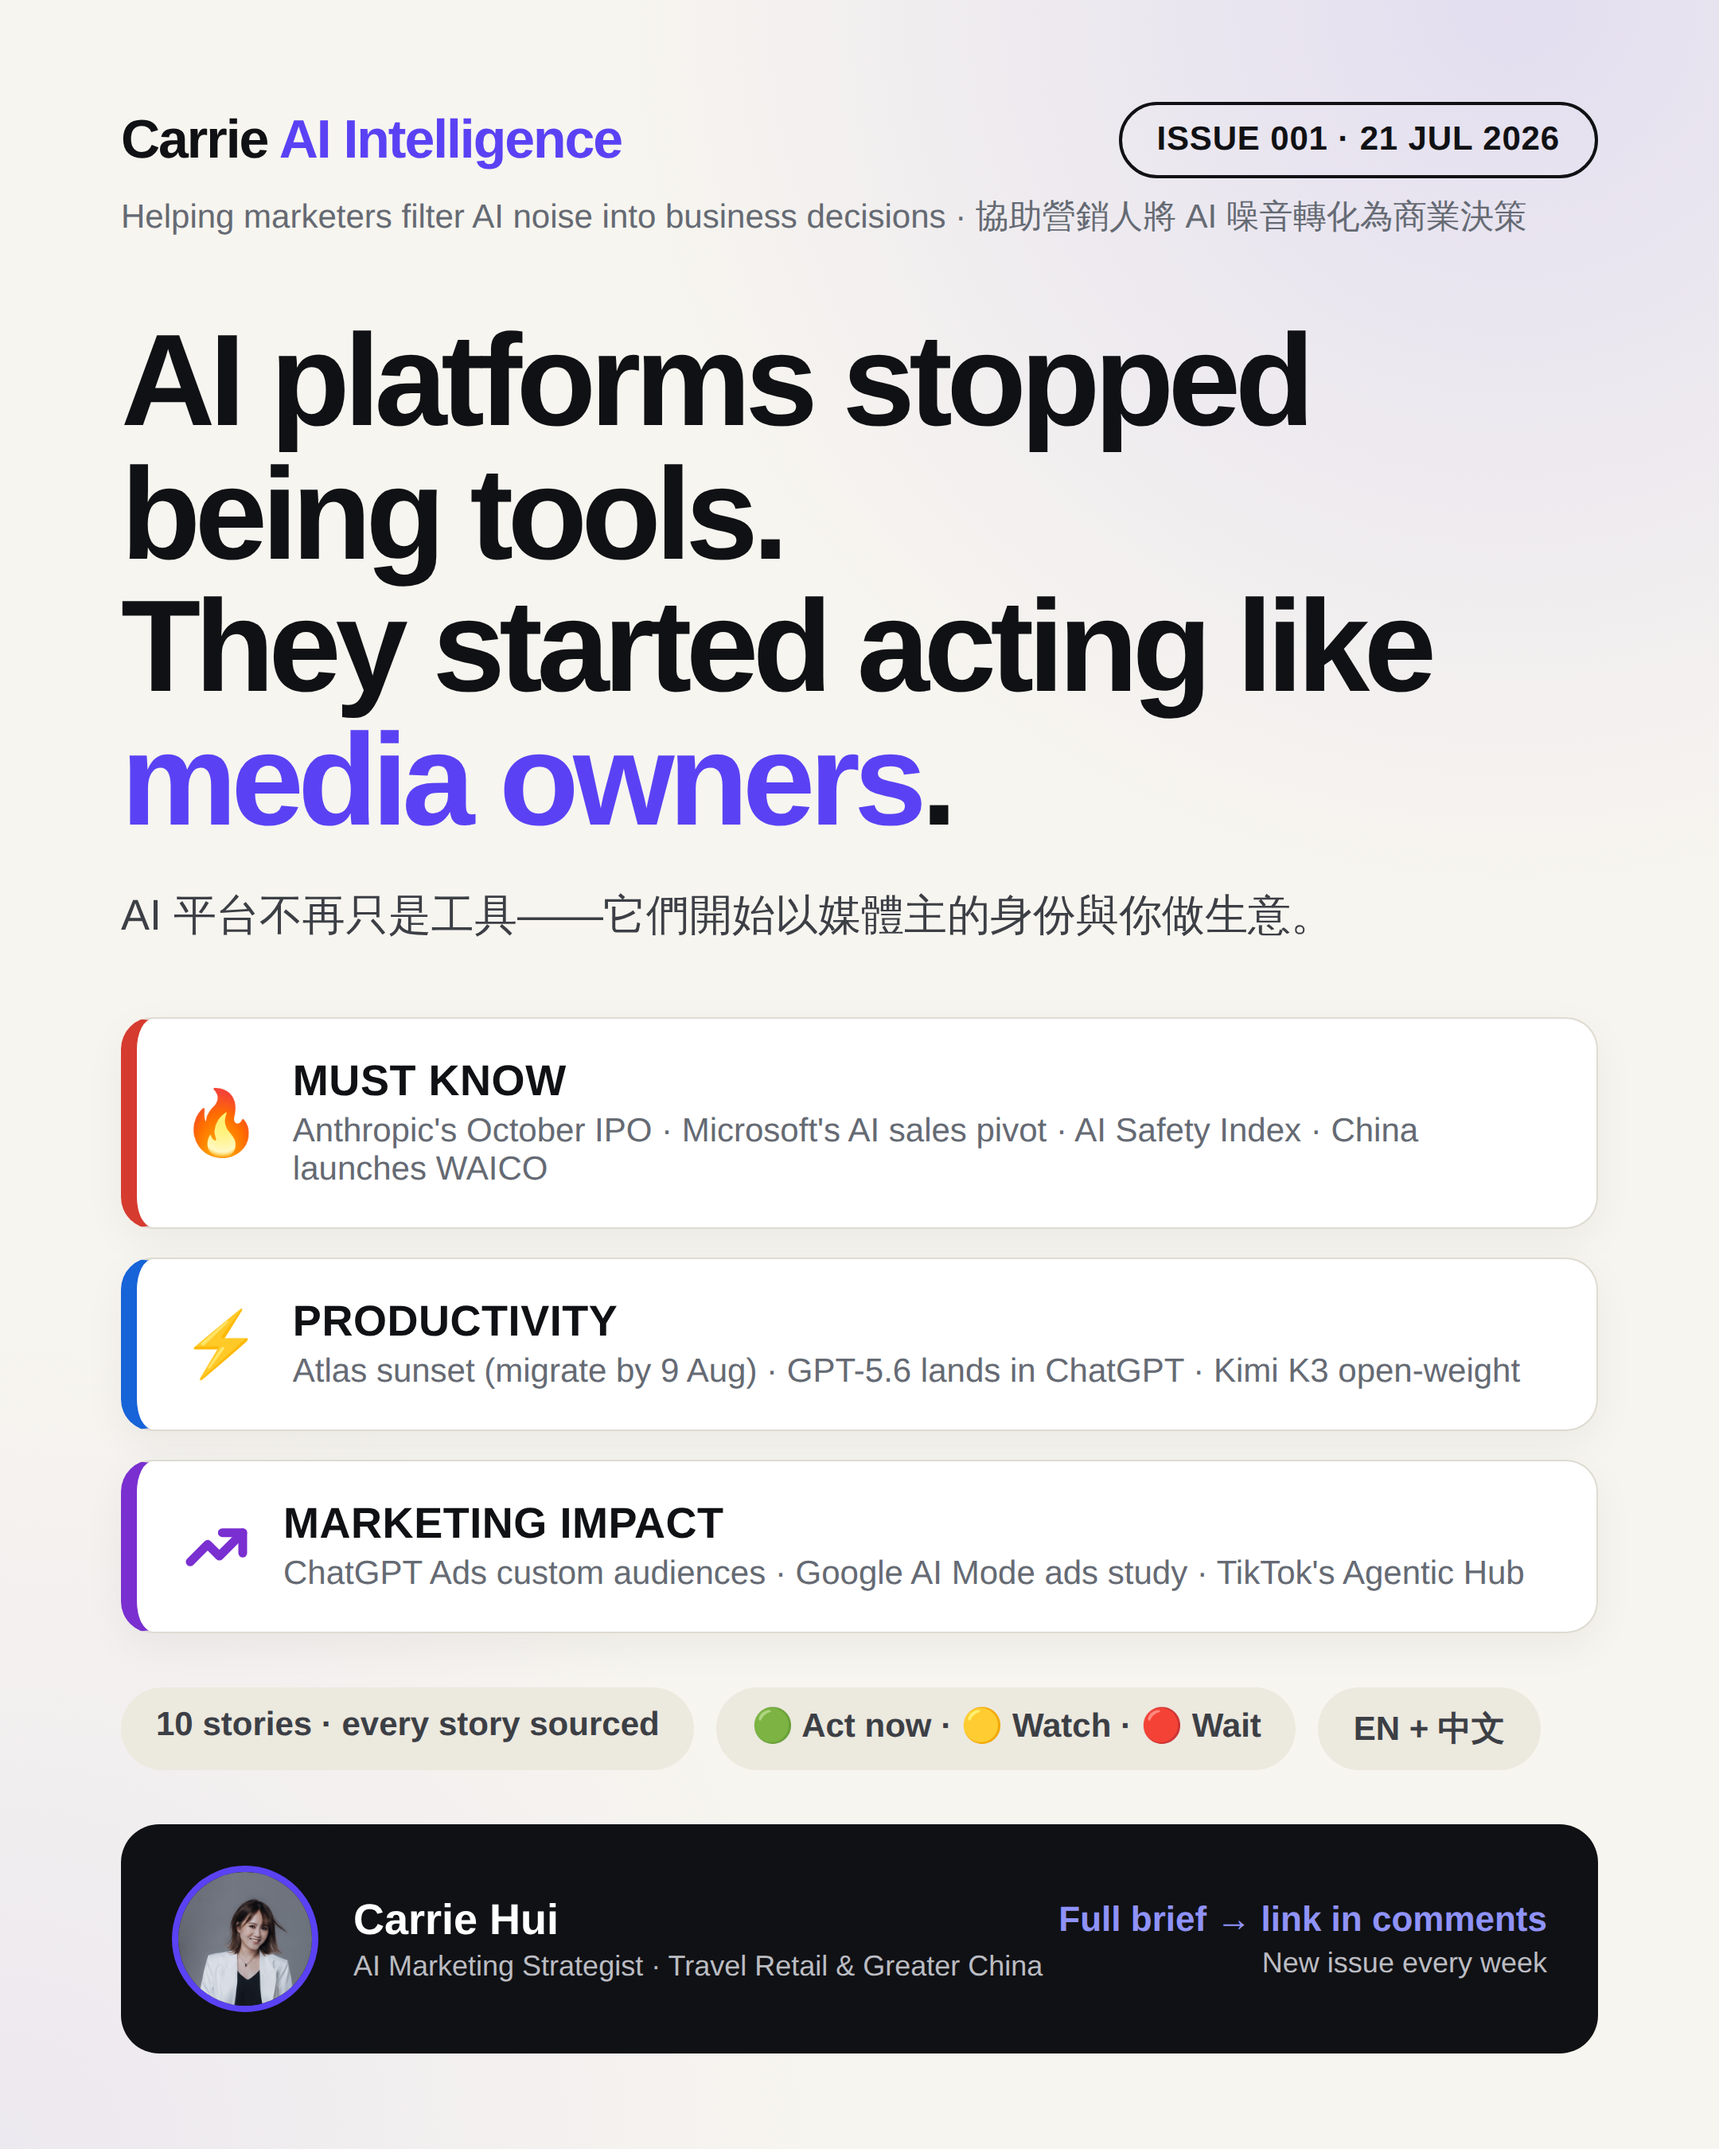
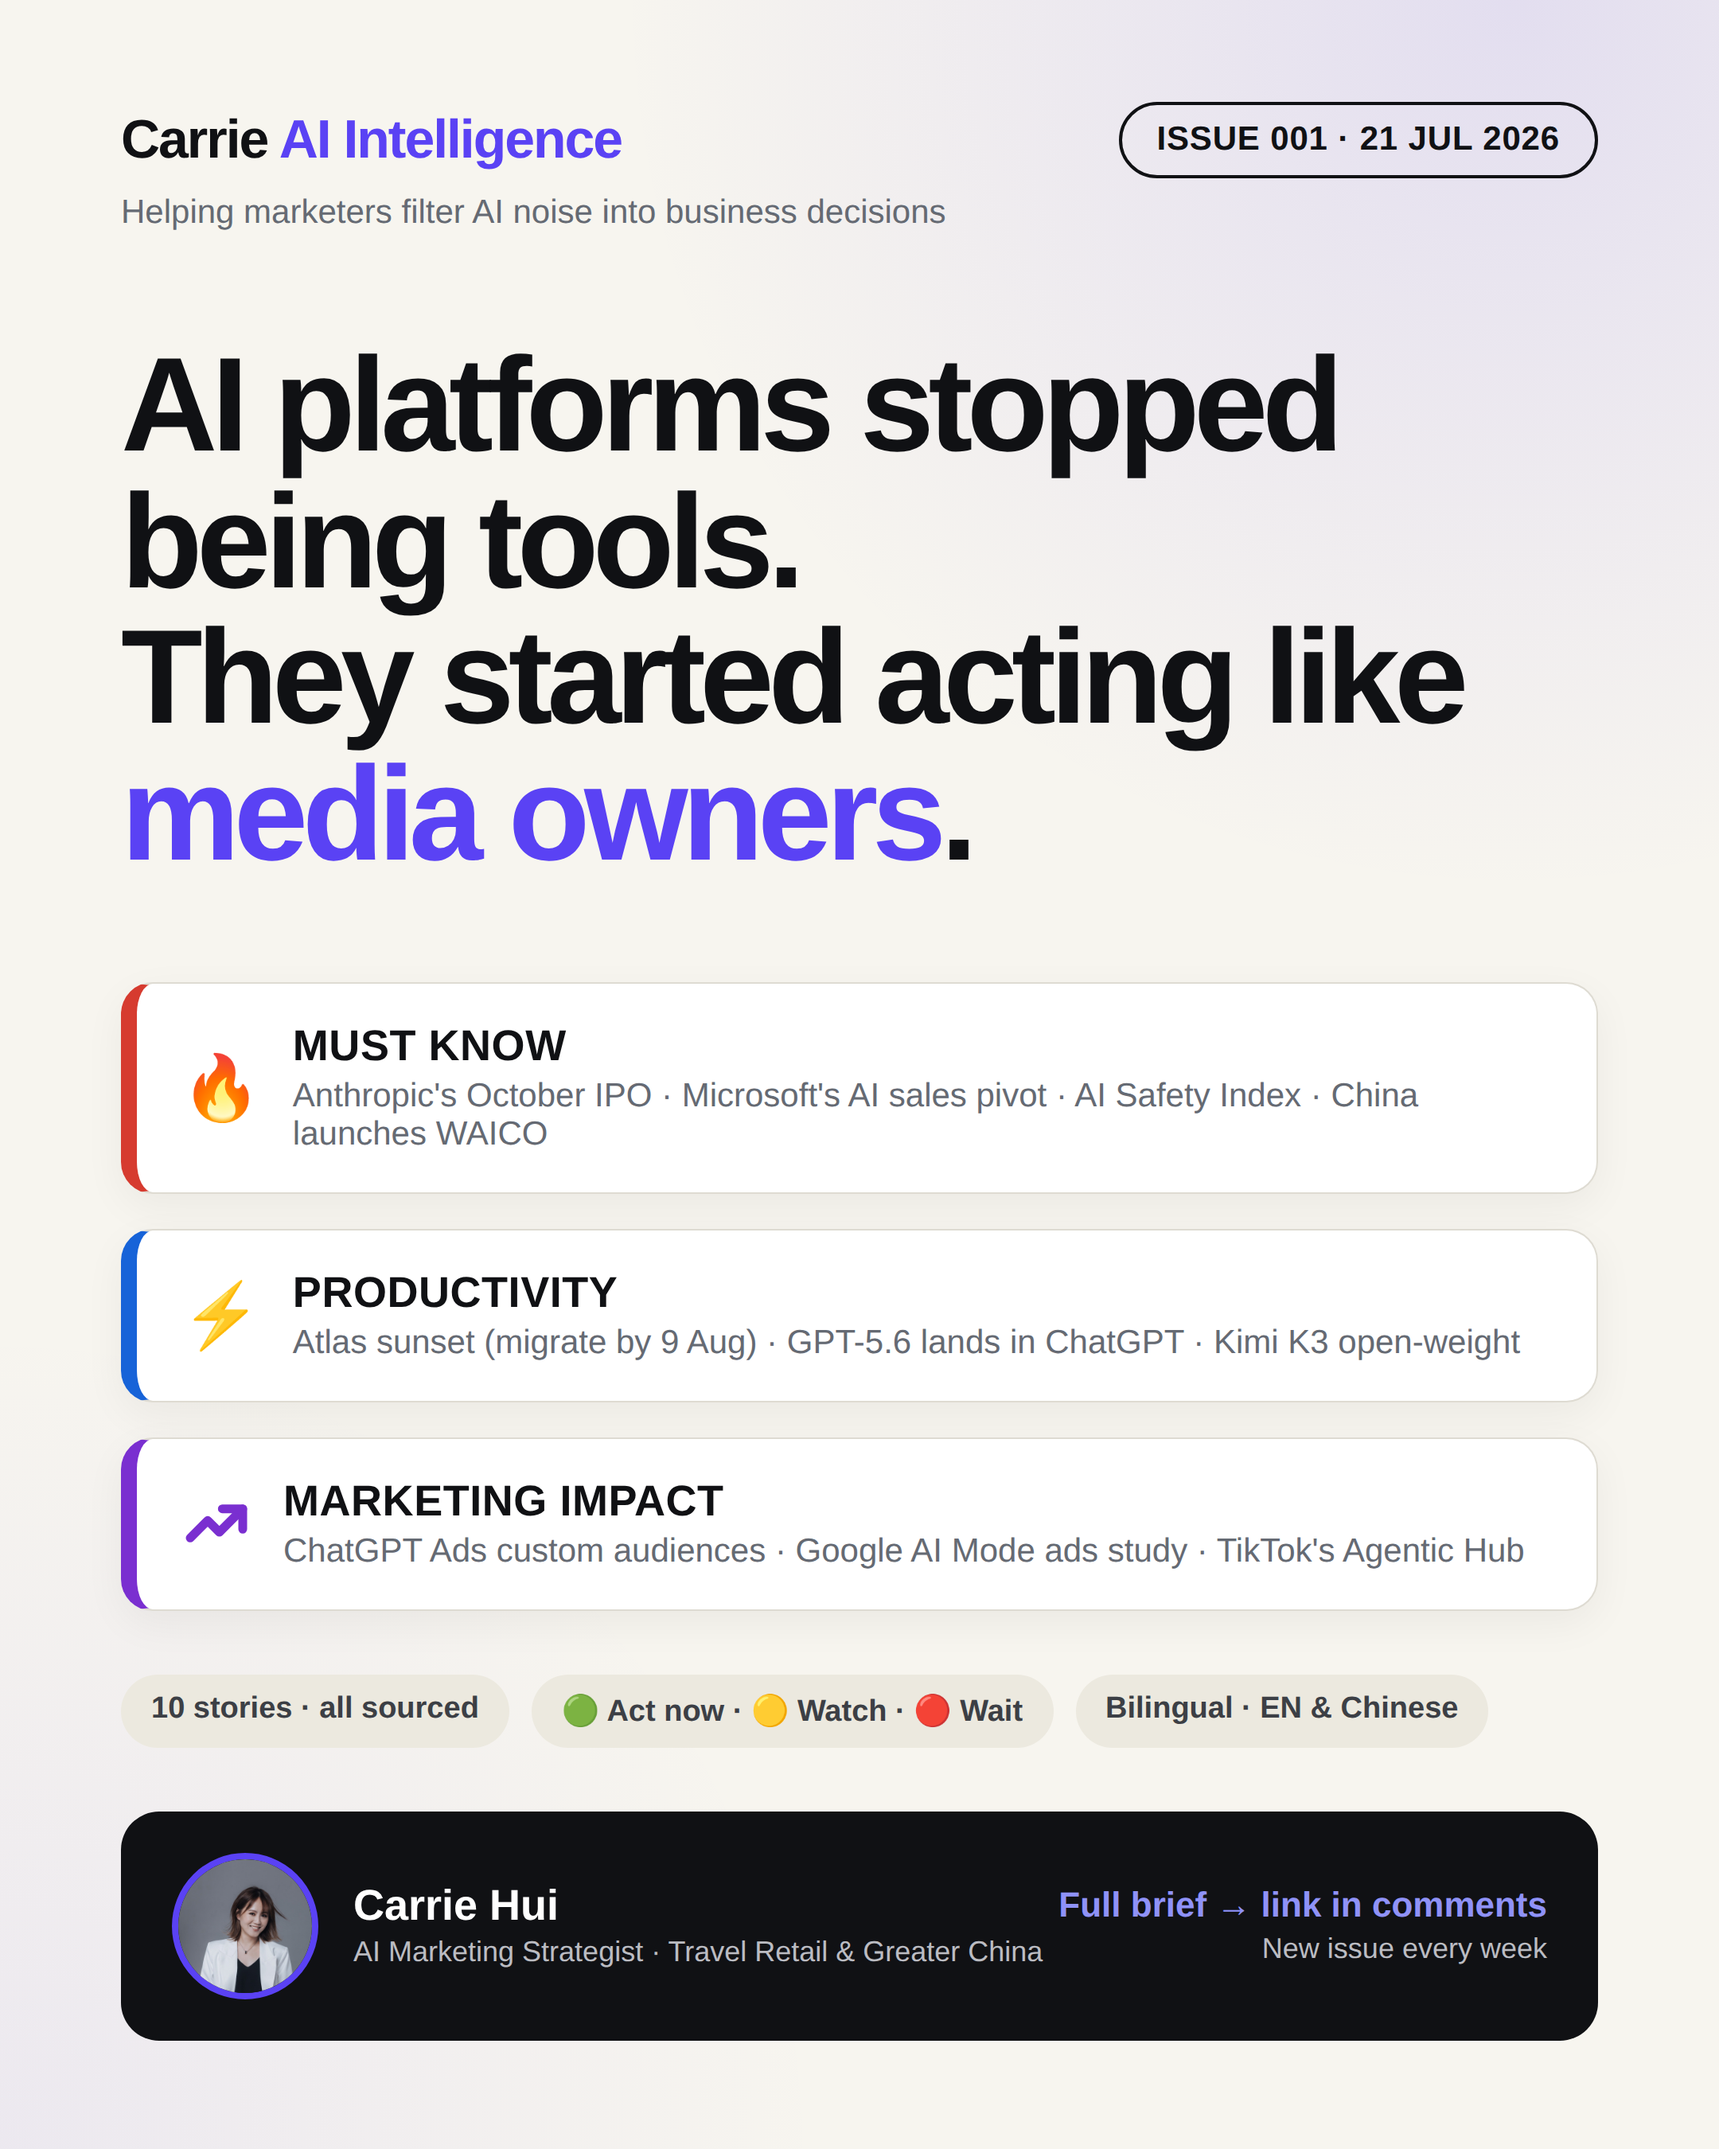
Cover: English-only version per Carrie's direction
Claude-Session: https://claude.ai/code/session_01Ek6vuTEDcpbBCa15Lno6ky

diff --git a/carrie-ai-intelligence/assets/covers/cover-template.html b/carrie-ai-intelligence/assets/covers/cover-template.html
@@ -25,13 +25,13 @@
   .tagline { margin-top: 10px; font-size: 21px; color: #656a73; }
 
   h1 {
-    margin-top: 48px;
-    font-size: 82px; line-height: 1.02; letter-spacing: -.045em; font-weight: 800;
+    margin-top: 66px;
+    font-size: 84px; line-height: 1.02; letter-spacing: -.045em; font-weight: 800;
   }
   h1 .em { color: #5a42f4; }
   .hook-zh { margin-top: 22px; font-size: 27px; color: #3c3f45; line-height: 1.5; }
 
-  .cats { margin-top: 44px; display: flex; flex-direction: column; gap: 18px; }
+  .cats { margin-top: 62px; display: flex; flex-direction: column; gap: 22px; }
   .cat {
     display: flex; align-items: center; gap: 20px;
     background: #ffffff; border: 1px solid #dedbd2; border-radius: 20px;
@@ -45,14 +45,14 @@
   .cat .name { font-size: 27px; font-weight: 800; letter-spacing: .01em; }
   .cat .desc { font-size: 21px; color: #656a73; margin-top: 4px; }
 
-  .meta-row { margin-top: 34px; display: flex; gap: 14px; }
+  .meta-row { margin-top: 40px; display: flex; gap: 14px; }
   .chip {
-    background: #ece9df; border-radius: 999px; padding: 12px 22px;
-    font-size: 21px; font-weight: 700; color: #3c3f45;
+    background: #ece9df; border-radius: 999px; padding: 11px 19px;
+    font-size: 19px; font-weight: 700; color: #3c3f45; white-space: nowrap;
   }
 
   .footer {
-    margin-top: 34px; display: flex; align-items: center; justify-content: space-between;
+    margin-top: 40px; display: flex; align-items: center; justify-content: space-between;
     background: #101114; border-radius: 24px; padding: 26px 32px; color: white;
   }
   .who { display: flex; align-items: center; gap: 22px; }
@@ -74,11 +74,10 @@
       <div class="brand">Carrie <span>AI Intelligence</span></div>
       <div class="issue-pill">ISSUE 001 · 21 JUL 2026</div>
     </div>
-    <div class="tagline">Helping marketers filter AI noise into business decisions · 協助營銷人將 AI 噪音轉化為商業決策</div>
+    <div class="tagline">Helping marketers filter AI noise into business decisions</div>
   </div>
 
   <h1>AI platforms stopped being tools.<br>They started acting like <span class="em">media owners</span>.</h1>
-  <div class="hook-zh">AI 平台不再只是工具——它們開始以媒體主的身份與你做生意。</div>
 
   <div class="cats">
     <div class="cat must">
@@ -105,9 +104,9 @@
   </div>
 
   <div class="meta-row">
-    <div class="chip">10 stories · every story sourced</div>
+    <div class="chip">10 stories · all sourced</div>
     <div class="chip">🟢 Act now · 🟡 Watch · 🔴 Wait</div>
-    <div class="chip">EN + 中文</div>
+    <div class="chip">Bilingual · EN &amp; Chinese</div>
   </div>
 
   <div class="footer">
